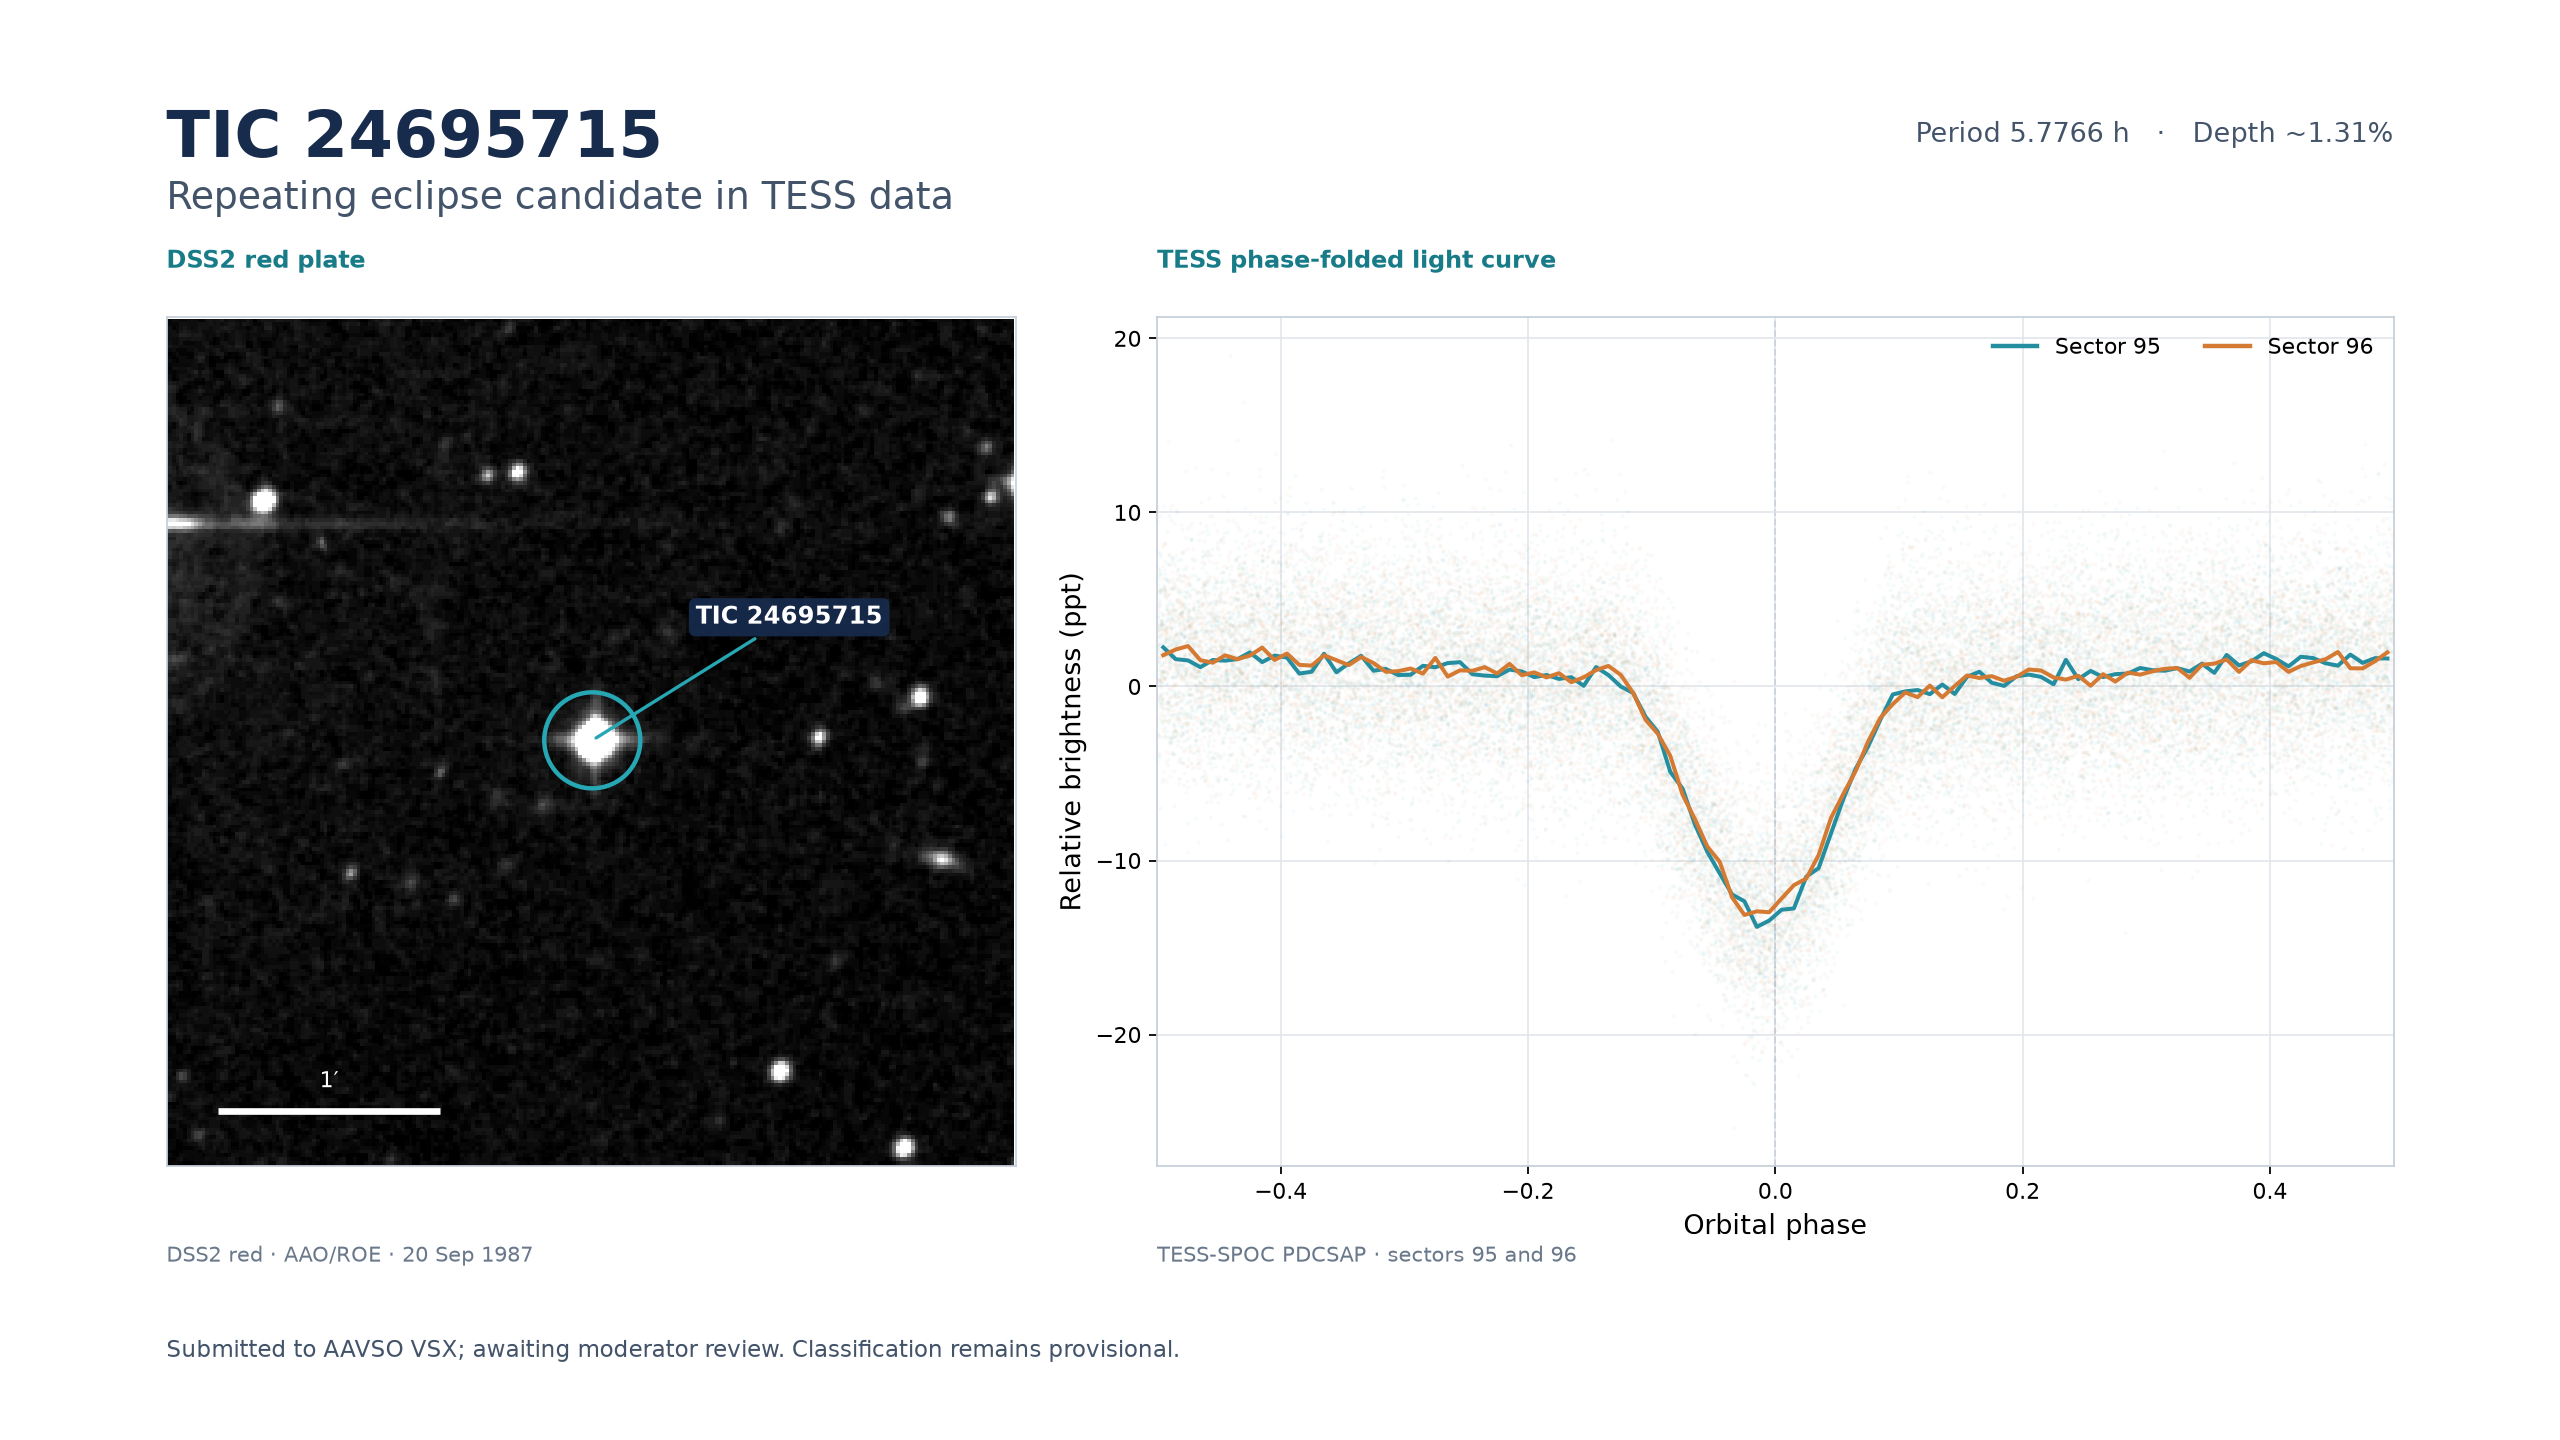
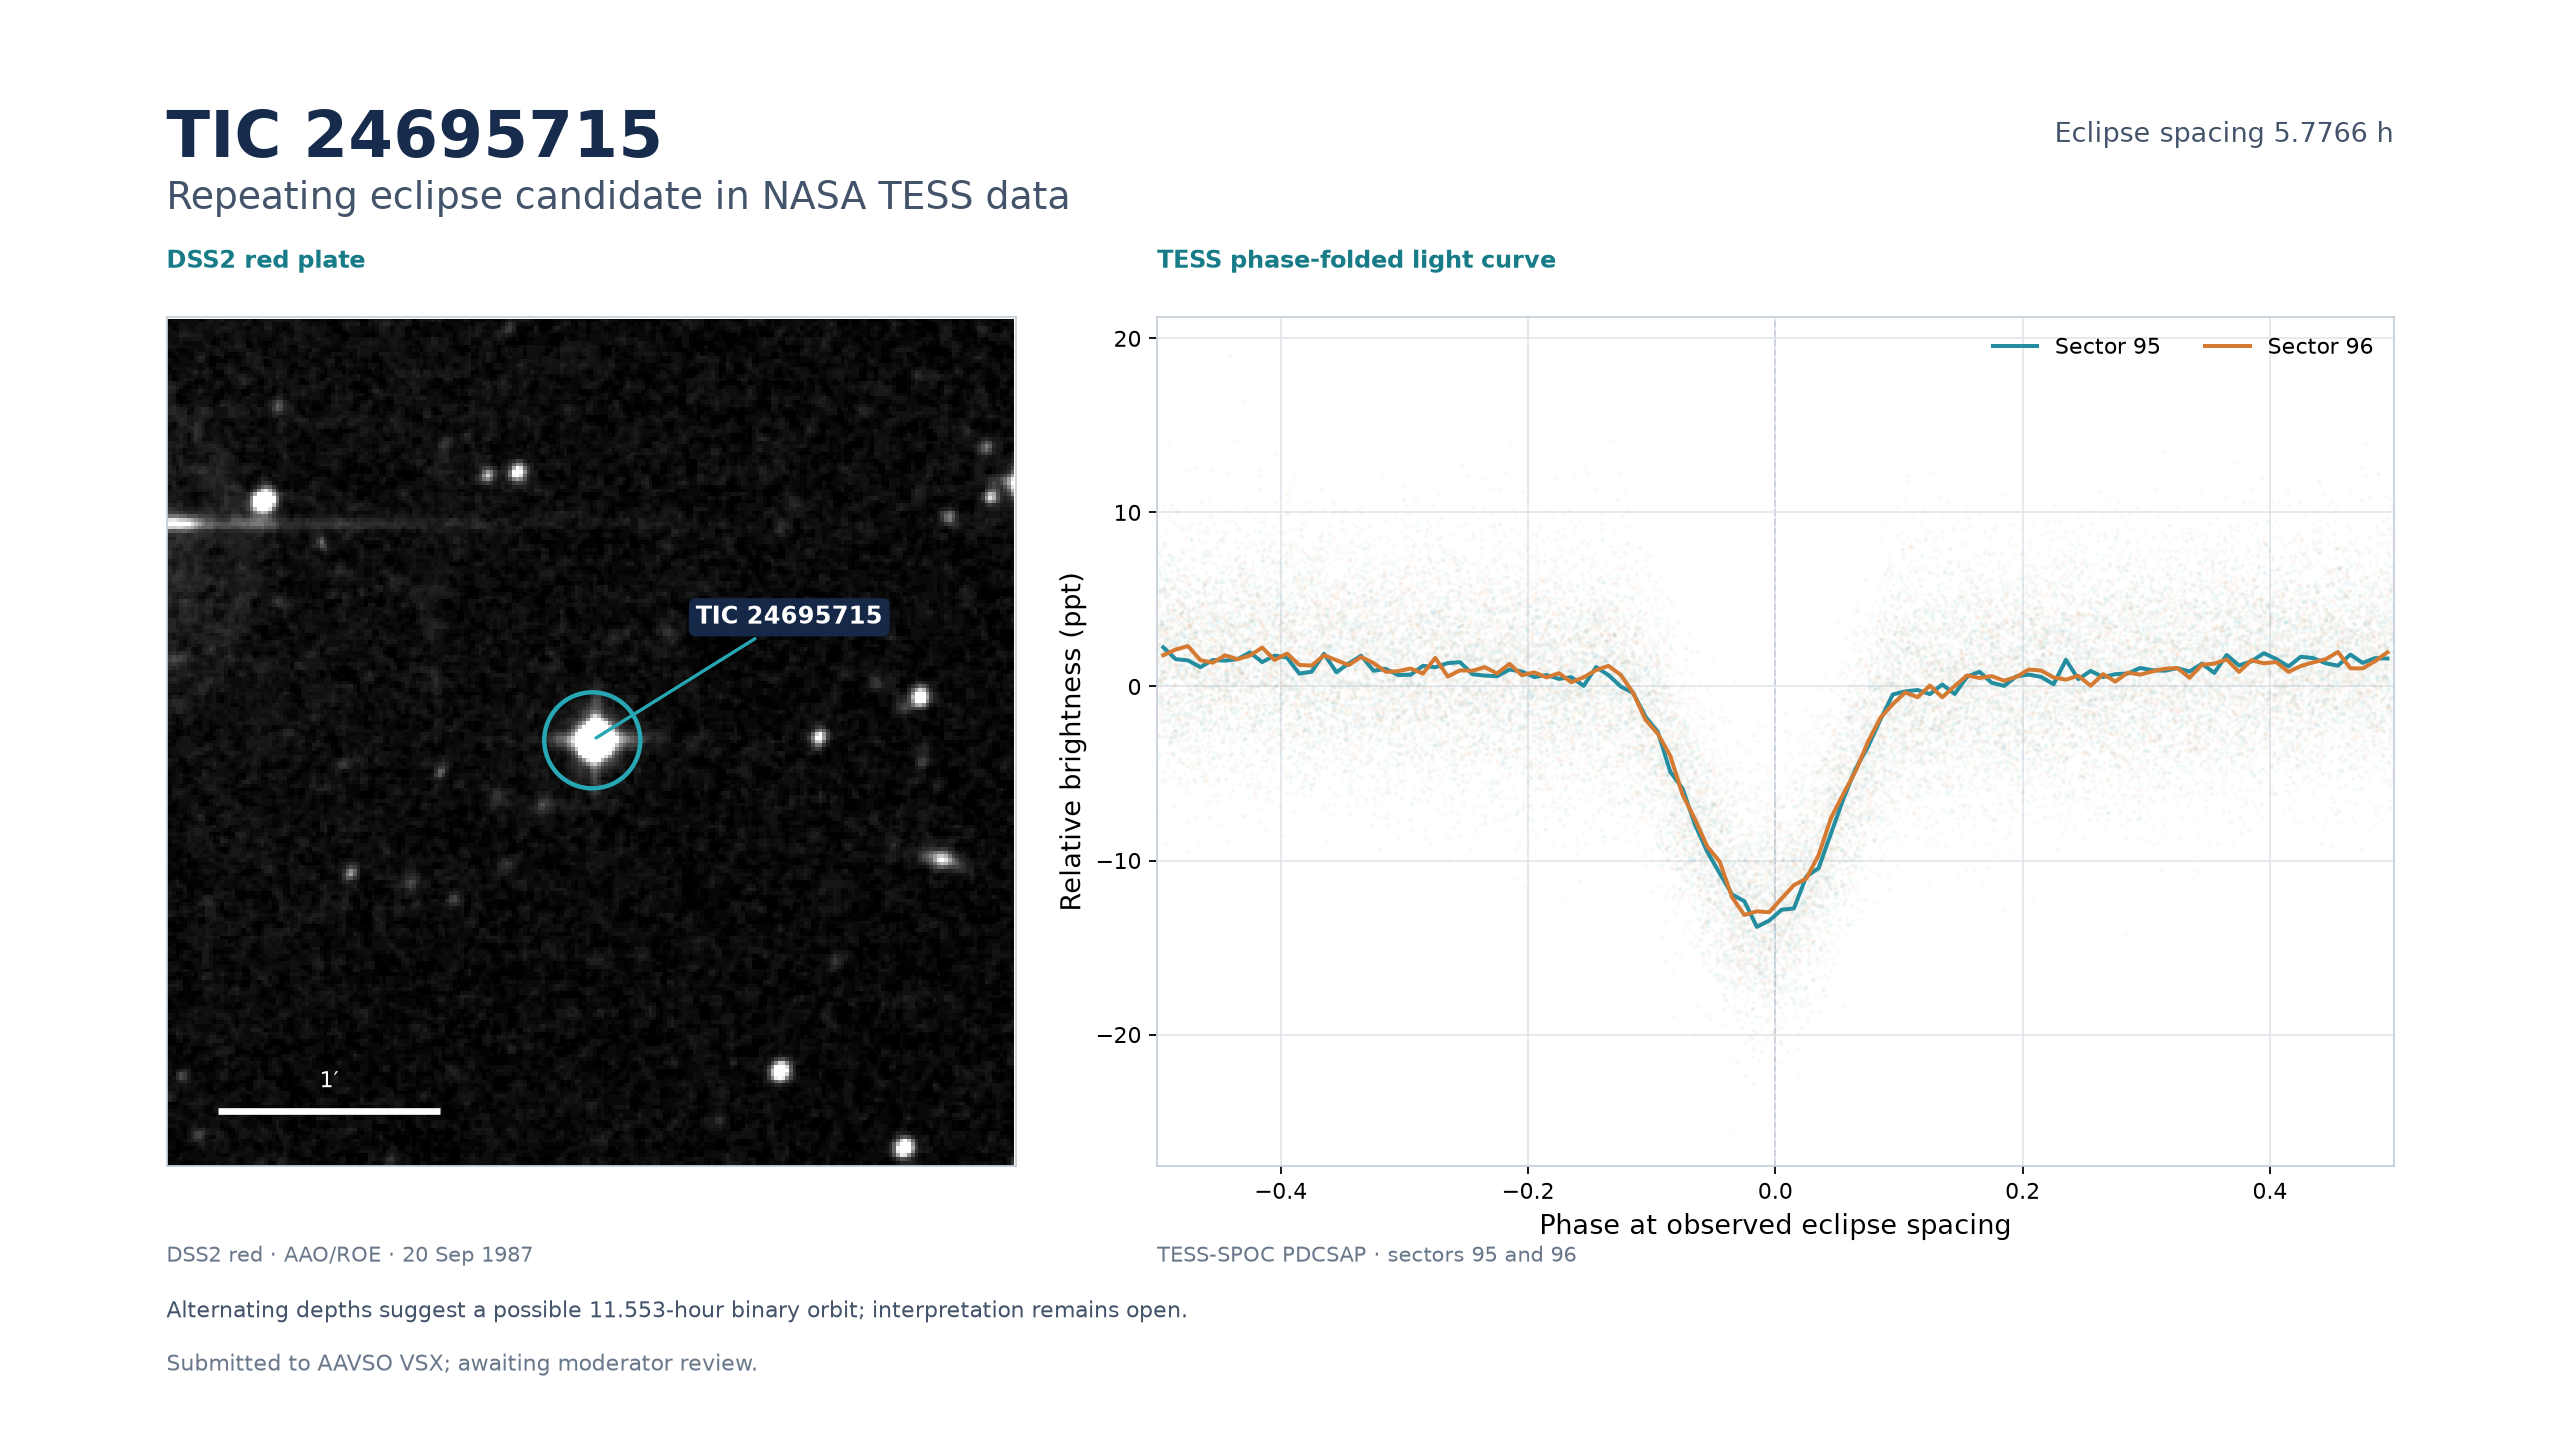
Assess TIC 24695715 planet and binary interpretation

diff --git a/output/tess/24695715/exoplanet-assessment.md b/output/tess/24695715/exoplanet-assessment.md
@@ -1,0 +1,40 @@
+# Is TIC 24695715 a planet host?
+
+**Current read:** possible in principle, but the data now favor an eclipsing-binary interpretation over a single planet transiting every 5.7766 hours. Nothing here confirms either interpretation.
+
+## The strongest clue: alternating eclipse depths
+
+The discovery period is the interval between successive dips, 0.240691392 days. If that is half the binary's orbital period, the true period would be 0.481382784 days (11.5532 hours), with alternating primary and secondary eclipses.
+
+Paired event-depth measurements support checking that alias:
+
+| Data | Adjacent event pairs | Mean even-minus-odd depth | Simple standard error |
+| --- | ---: | ---: | ---: |
+| Sectors 95/96 | 38 | 0.090 percentage points | 0.023 percentage points |
+| Older full-frame cutouts | 40 | 0.136 percentage points | 0.025 percentage points |
+
+Even-numbered events are deeper in both independent time baselines. These are paired differences from the trapezoid event fits in `events.csv`; the quoted errors describe scatter across event pairs and are not a full transit-model posterior. The repeating parity is consistent with two similar, but not identical, eclipses in a binary orbit. A planet on a 5.7766-hour orbit would normally give the same primary transit on every cycle; it would not naturally produce this alternating transit depth pattern.
+
+The absence of a dip at phase 0.5 when folded on 5.7766 hours does not rule out the double-period binary: the two eclipse types land on top of each other at phase 0 in that fold. A fold at 11.5532 hours should show the two types separately.
+
+## Host-star and contamination checks
+
+The TESS Input Catalog v8.2 lists TIC 24695715 as a 5313 K star with radius 0.957 solar radii. Its estimated contamination ratio is 0.000354; the TESS-SPOC CROWDSAP values are 0.982 and 0.986 in sectors 95 and 96. The nearest other TIC source in a two-arcminute cone is 43 arcseconds away and 7.1 TESS magnitudes fainter. These checks make a bright, widely separated contaminant less likely, but do not exclude a close unresolved companion.
+
+The matched Gaia DR3 source is `4697634881027710464`. Gaia reports parallax 1.908 ± 0.102 mas, G=12.723, BP−RP=0.870, and Teff=5612 K. Its radius estimates differ: FLAME gives 1.451 (reported interval 1.376–1.531) solar radii, while GSP-Phot gives 1.826 (1.753–1.940). The solution also has RUWE=8.918, astrometric excess noise 1.215 mas with significance 1573, and no Gaia variability classification. No row was returned for this source in Gaia DR3's two-body-orbit or astrometric-acceleration tables. The poor astrometric fit and discrepant TIC/Gaia radii mean the host-star radius is not secure; unresolved multiplicity is one possible explanation, not a confirmed one.
+
+If the 1.31% depth were an undiluted planetary transit, the simple radius-ratio estimate gives about 1.06 Jupiter radii using the TIC radius, 1.61 using Gaia FLAME, or 2.03 using Gaia GSP-Phot. Those estimates assume a single host star and a non-grazing transit; the alternating depths and radius disagreement invalidate using them as a planet measurement. For the Gaia FLAME mass (0.960 solar masses), Kepler's law gives a semimajor axis of about 1.61 solar radii at 5.7766 hours and 2.55 solar radii at 11.5532 hours. The Gaia single-star radius is therefore especially difficult to reconcile with a 5.7766-hour planet interpretation, but its high RUWE cautions against treating that radius as definitive.
+
+## Catalog status and what would settle it
+
+There is no NASA Exoplanet Archive TOI row and no TIC 24695715 match in the public SPOC TCE statistics for sectors 95 or 96. No match was found in the five checked published TESS eclipsing-binary tables or in the VSX search made before submission. Catalog absence does not establish that the signal is a planet.
+
+The next useful work is to fit the two eclipse types separately at 11.5532 hours with a physical binary/transit model, compare odd/even timing and shapes across the older cutouts, and determine whether Gaia's astrometric anomaly is consistent with an unresolved companion. High-resolution imaging or multi-band ground-based photometry would test for a nearby eclipsing source; radial-velocity monitoring would distinguish a planetary companion from a stellar companion. Until then, call this an eclipsing-object candidate and do not claim an exoplanet.
+
+## Data sources
+
+- [MAST TIC cone-search service](https://mast.stsci.edu/vo-conesearch/api/v0.1/tic?RA=25.0617122455082&DEC=-67.8150662187333&SR=0.0004)
+- [TIC v8.2 field definitions](https://outerspace.stsci.edu/spaces/TESS/pages/111023212/TIC%2Bv8.2%2Band%2BCTL%2Bv8.xx%2BData%2BRelease%2BNotes)
+- [Gaia DR3 source query](https://gea.esac.esa.int/tap-server/tap/sync?REQUEST=doQuery&LANG=ADQL&FORMAT=csv&QUERY=SELECT%20source_id%2Cra%2Cdec%2Cparallax%2Cparallax_error%2Cphot_g_mean_mag%2Cbp_rp%2Cteff_gspphot%2Clogg_gspphot%2Cruwe%2Castrometric_excess_noise%20FROM%20gaiadr3.gaia_source%20WHERE%20source_id%3D4697634881027710464)
+- [NASA Exoplanet Archive TOI table](https://exoplanetarchive.ipac.caltech.edu/TAP/sync?query=select%20tid%2Ctoi%20from%20toi%20where%20tid%3D24695715&format=csv)
+- [MAST public TESS SPOC TCE tables](https://archive.stsci.edu/tess/bulk_downloads/bulk_downloads_tce.html)

diff --git a/output/tess/24695715/report.md b/output/tess/24695715/report.md
@@ -12,13 +12,23 @@ This is a broad pilot, not a complete all-sky census. It covered the selected tw
 
 ## Best unlisted lead from the pilot
 
-TIC 24695715 has a repeated, single-dip signal. The fit to sectors 95 and 96 gives a period of 0.2406914 days (5.7766 hours), a duration of about 1.24 hours, and a depth of about 1.31%. Its TESS magnitude is 12.25. Even and odd cycles have similar depths, and the folded light curve shows no clear secondary dip at phase 0.5.
+TIC 24695715 has a repeated eclipse signal with successive dips spaced by 0.2406914 days (5.7766 hours). The fitted duration is about 1.24 hours and depth about 1.31%. Its TESS magnitude is 12.25. The event spacing may be half the true orbital period; see the parity check below.
 
 The signal is also present in TESS full-frame cutouts from sectors 1, 2, 29, 68, and 69. At the fitted period, phase-fitted depths are 0.88–1.08%, with BLS signal-to-noise 41.8–72.3. A linear ephemeris spanning the old cutouts and the sector 95/96 fit has 2.4-minute RMS timing residuals.
 
 Target-pixel difference images from sectors 95 and 96 put the variable source 4.2 and 2.0 arcseconds from the TIC coordinates, respectively, consistent with the target. Gaia DR3 has a nearby match 0.55 arcseconds away, with G=12.72 and BP−RP=0.87; its variability flag is unavailable.
 
-Cross-checks found no TIC match in five published TESS eclipsing-binary tables, no VSX entry within 36 arcseconds, and no NASA Exoplanet Archive TOI entry. SIMBAD returns UCAC4 111-001466 at the position. Exact TIC, Gaia DR3, and UCAC4 web searches returned no relevant results. The SPOC TCE table fetch for sectors 95/96 timed out, so that catalog check remains open. This is an unclassified eclipse candidate; the evidence does not establish whether the companion is a planet, brown dwarf, or star.
+Cross-checks found no TIC match in five published TESS eclipsing-binary tables, no VSX entry within 36 arcseconds, no NASA Exoplanet Archive TOI entry, and no public SPOC TCE row for this target in sectors 95 or 96. SIMBAD returns UCAC4 111-001466 at the position. Exact TIC, Gaia DR3, and UCAC4 web searches returned no relevant results.
+
+## Planet-versus-binary check
+
+The 5.7766-hour interval may be half the true orbital period. Comparing adjacent eclipse measurements gives deeper even-numbered events in both the sector 95/96 data and the older, widely separated TESS cutouts. The paired mean depth differences are 0.090 percentage points across 38 event pairs in sectors 95/96 and 0.136 percentage points across 40 pairs in the older cutouts. The direction repeats across the independent baselines. [Folding at twice the interval](period-alias-check.png) shows the two alternating eclipses near phases 0 and 0.5. This pattern makes an eclipsing binary a stronger explanation than a planet transiting every 5.7766 hours, although the physical interpretation is not confirmed.
+
+The host-star size is not settled. TIC v8.2 gives a radius of 0.96 solar radii, while Gaia DR3 gives 1.45 solar radii from FLAME and 1.83 solar radii from GSP-Phot. Gaia also reports RUWE 8.92 and astrometric excess noise 1.22 mas, so its single-source astrometric/stellar solution is anomalous. At the measured 1.31% depth, a simple undiluted transit estimate would imply about 1.1 Jupiter radii using the TIC radius, but 1.6–2.0 Jupiter radii using Gaia's radii. These are rough estimates, and the input-radius disagreement plus alternating depths prevents a reliable planet-radius claim.
+
+The TIC contamination ratio is 0.00035 and SPOC crowding metrics are 0.982 and 0.986 for sectors 95 and 96. The nearest TIC catalog neighbor is 43 arcseconds away and much fainter, which argues against a bright, wide contaminant. It does not rule out an unresolved close companion. The Gaia DR3 source has no Gaia variability classification or NSS two-body/acceleration solution. Searches found no NASA Exoplanet Archive TOI match and no public SPOC TCE row in sectors 95 or 96.
+
+The submitted VSX entry used the 5.7766-hour eclipse spacing as its period. This new parity check raises a possible 11.553-hour orbital period; a physical binary/transit fit and an amendment to the pending submission should be considered before claiming a planet. Full details and calculations are in [exoplanet-assessment.md](exoplanet-assessment.md) and [exoplanet-assessment.json](exoplanet-assessment.json).
 
 The candidate was submitted to AAVSO VSX with the provisional designation TIC 24695715 and is awaiting moderator review. The submitted support plot is `phase-and-timeseries.png`; the share graphic is `tic-24695715-share.png`. The submission requests discoverer credit as Divy, which VSX moderators may edit.
 
